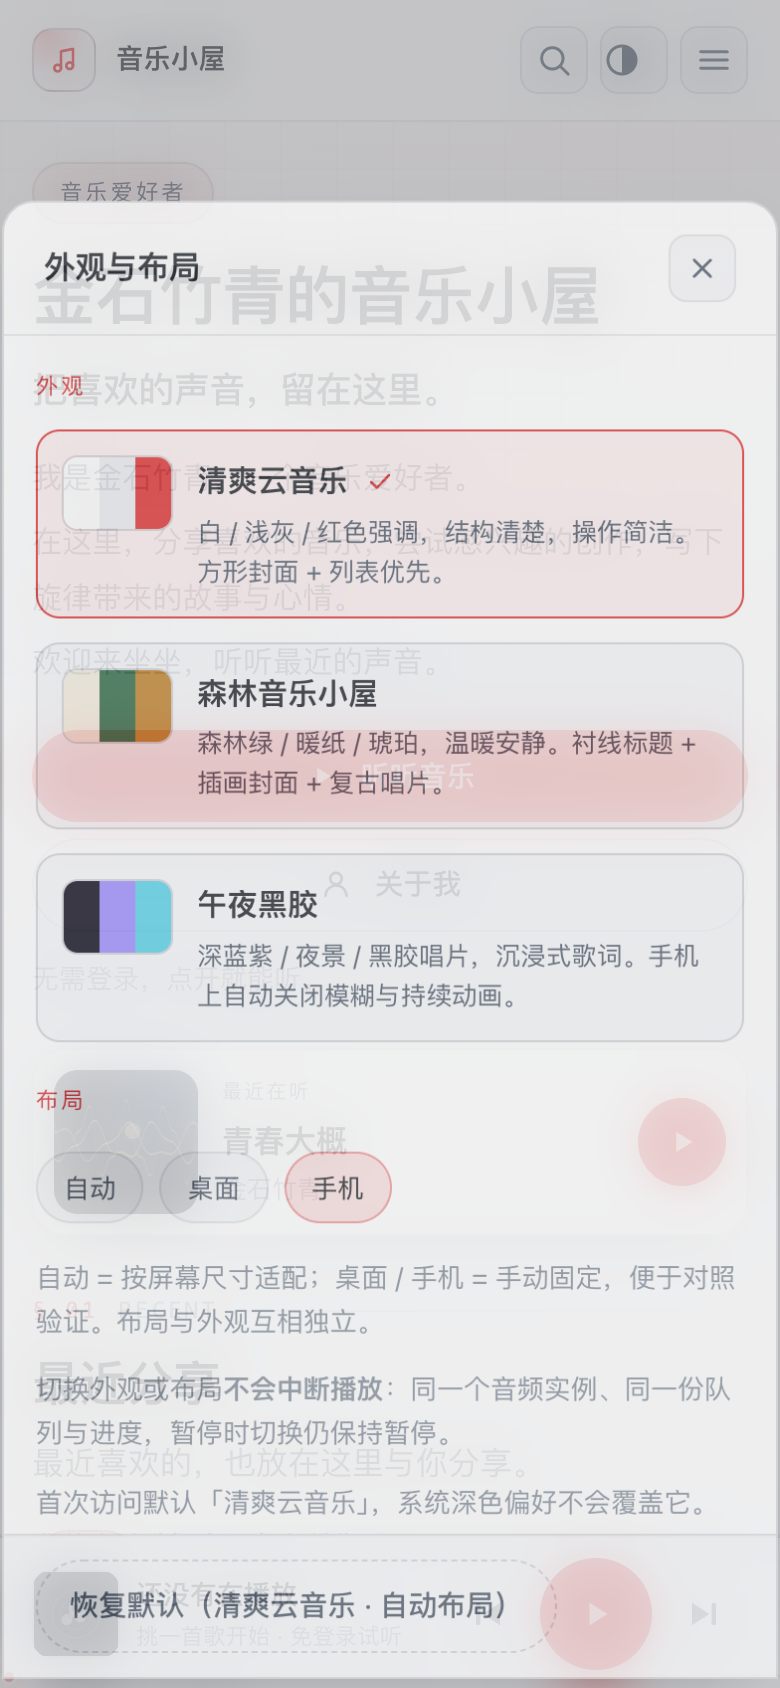
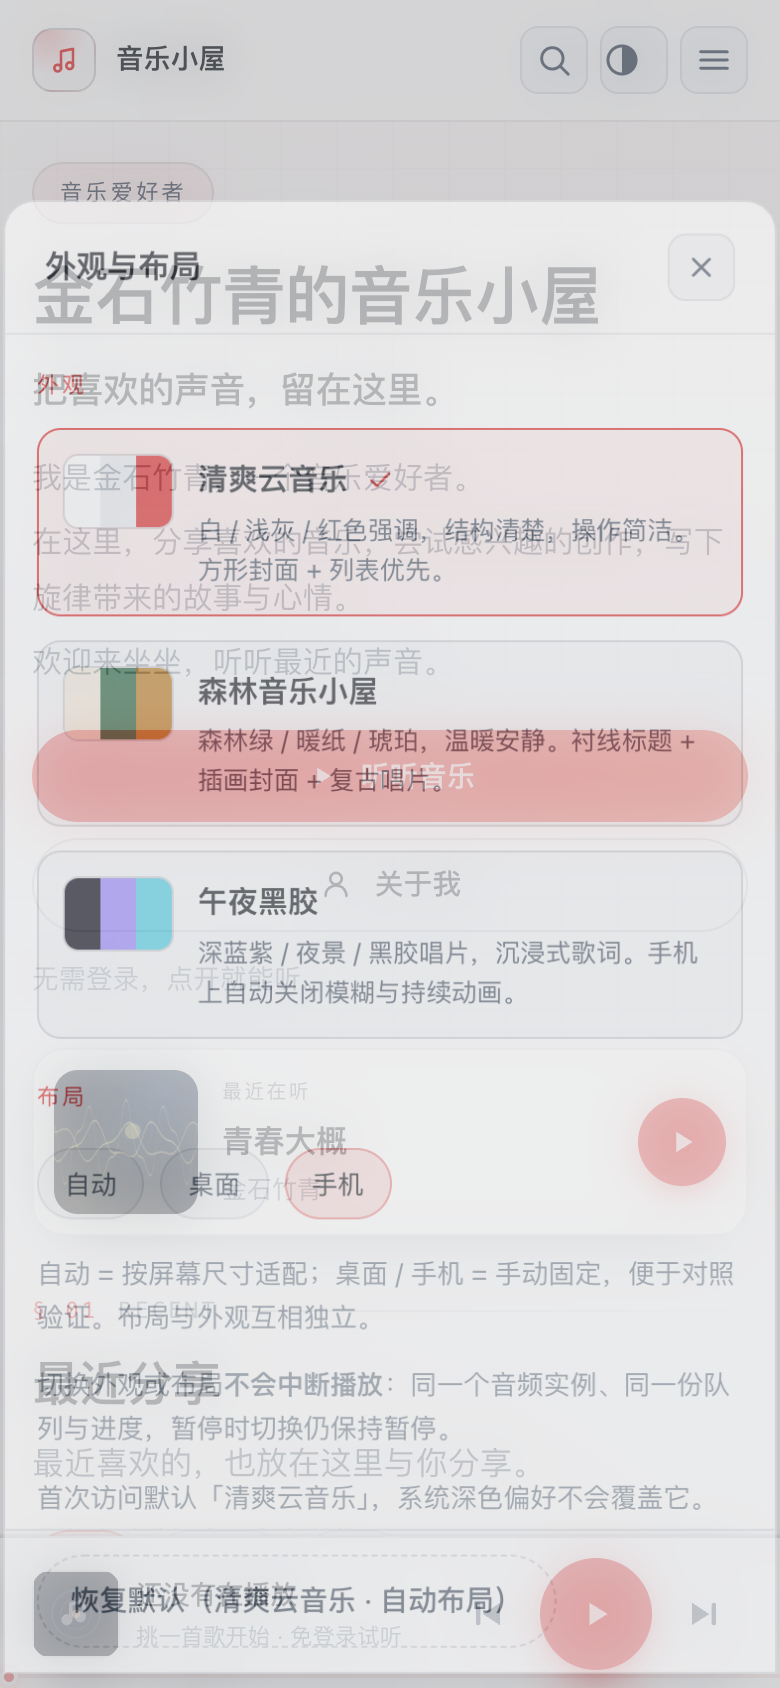
docs: 绝对路径改造后的线上复验报告（审计 0 问题、18 PASS/1 N/A、112/112、45/45）

diff --git a/docs/BROWSER-LIVE-RESULTS.md b/docs/BROWSER-LIVE-RESULTS.md
@@ -1,7 +1,7 @@
 # 正式域名 · 真实浏览器复验
 
 > 由 `node tools/browser-live.mjs` 生成。目标：https://www.xuzhaoqing.com
-> 浏览器：Chrome/157.0.8103.79 · 2026-11-19T10:22:46.804Z
+> 浏览器：Chrome/157.0.8103.79 · 2026-11-19T10:57:26.113Z
 > **45 / 45 通过，0 失败**
 
 截图：`docs/screenshots-live/`
